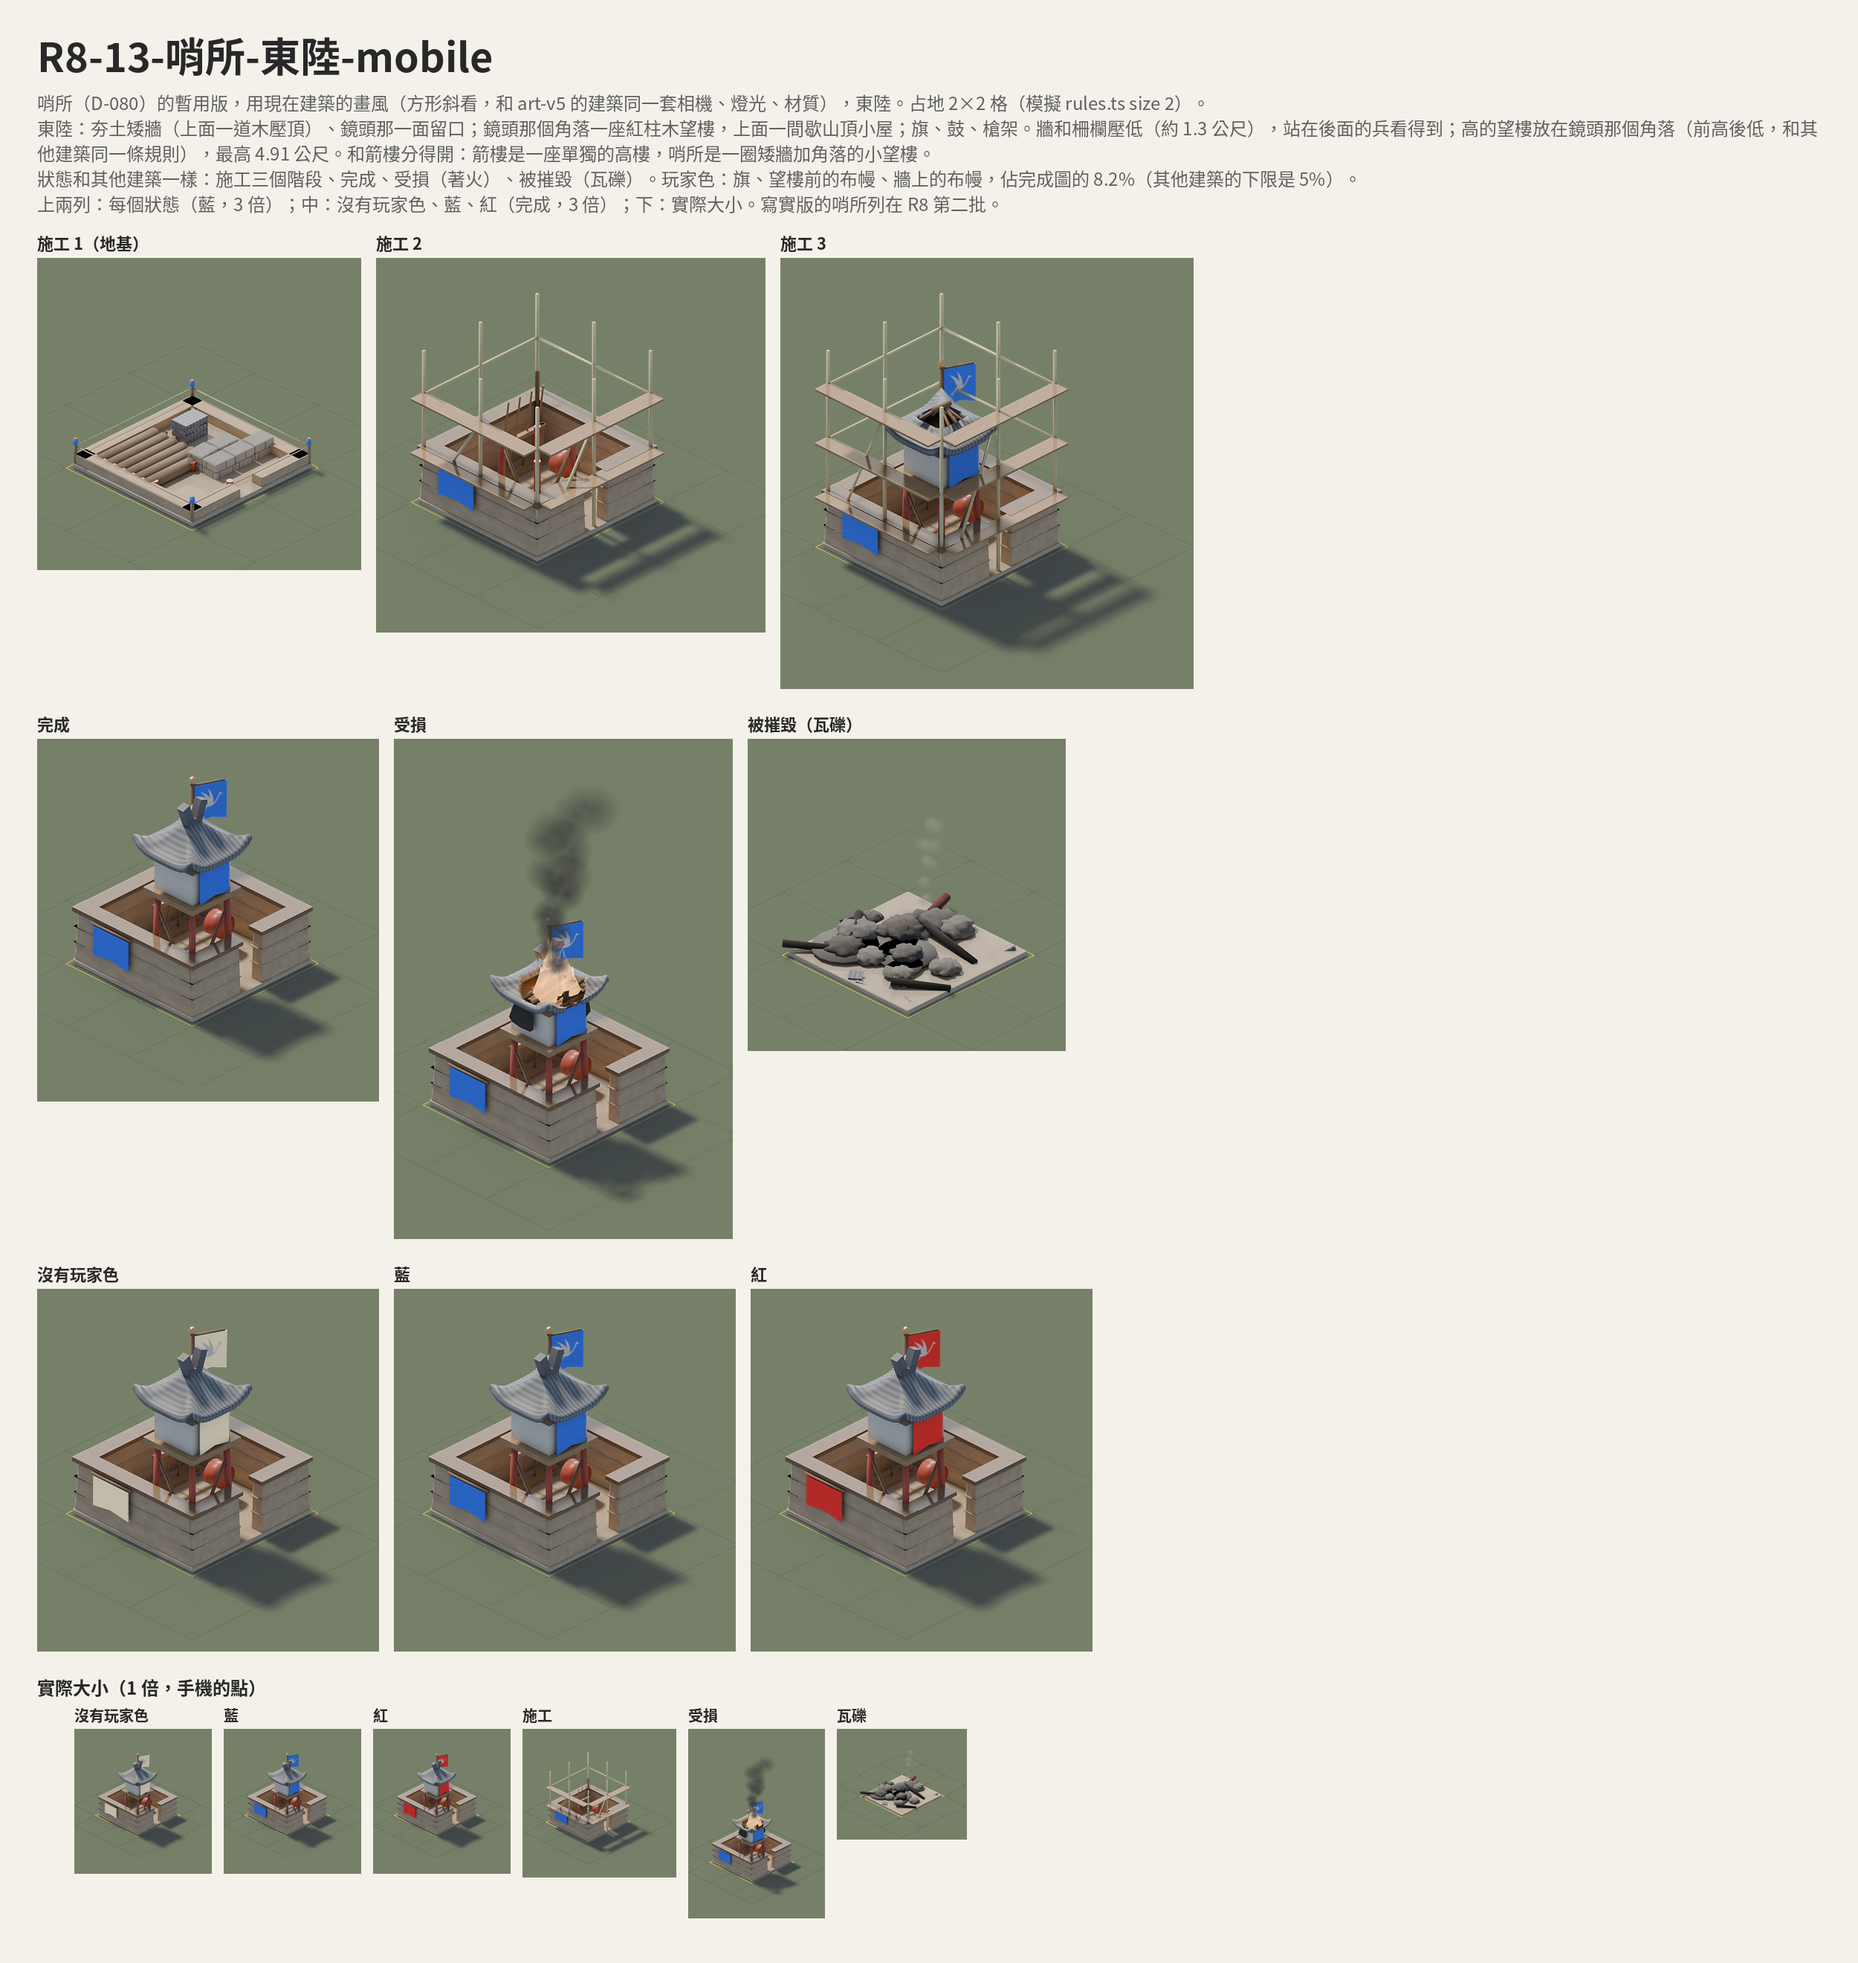
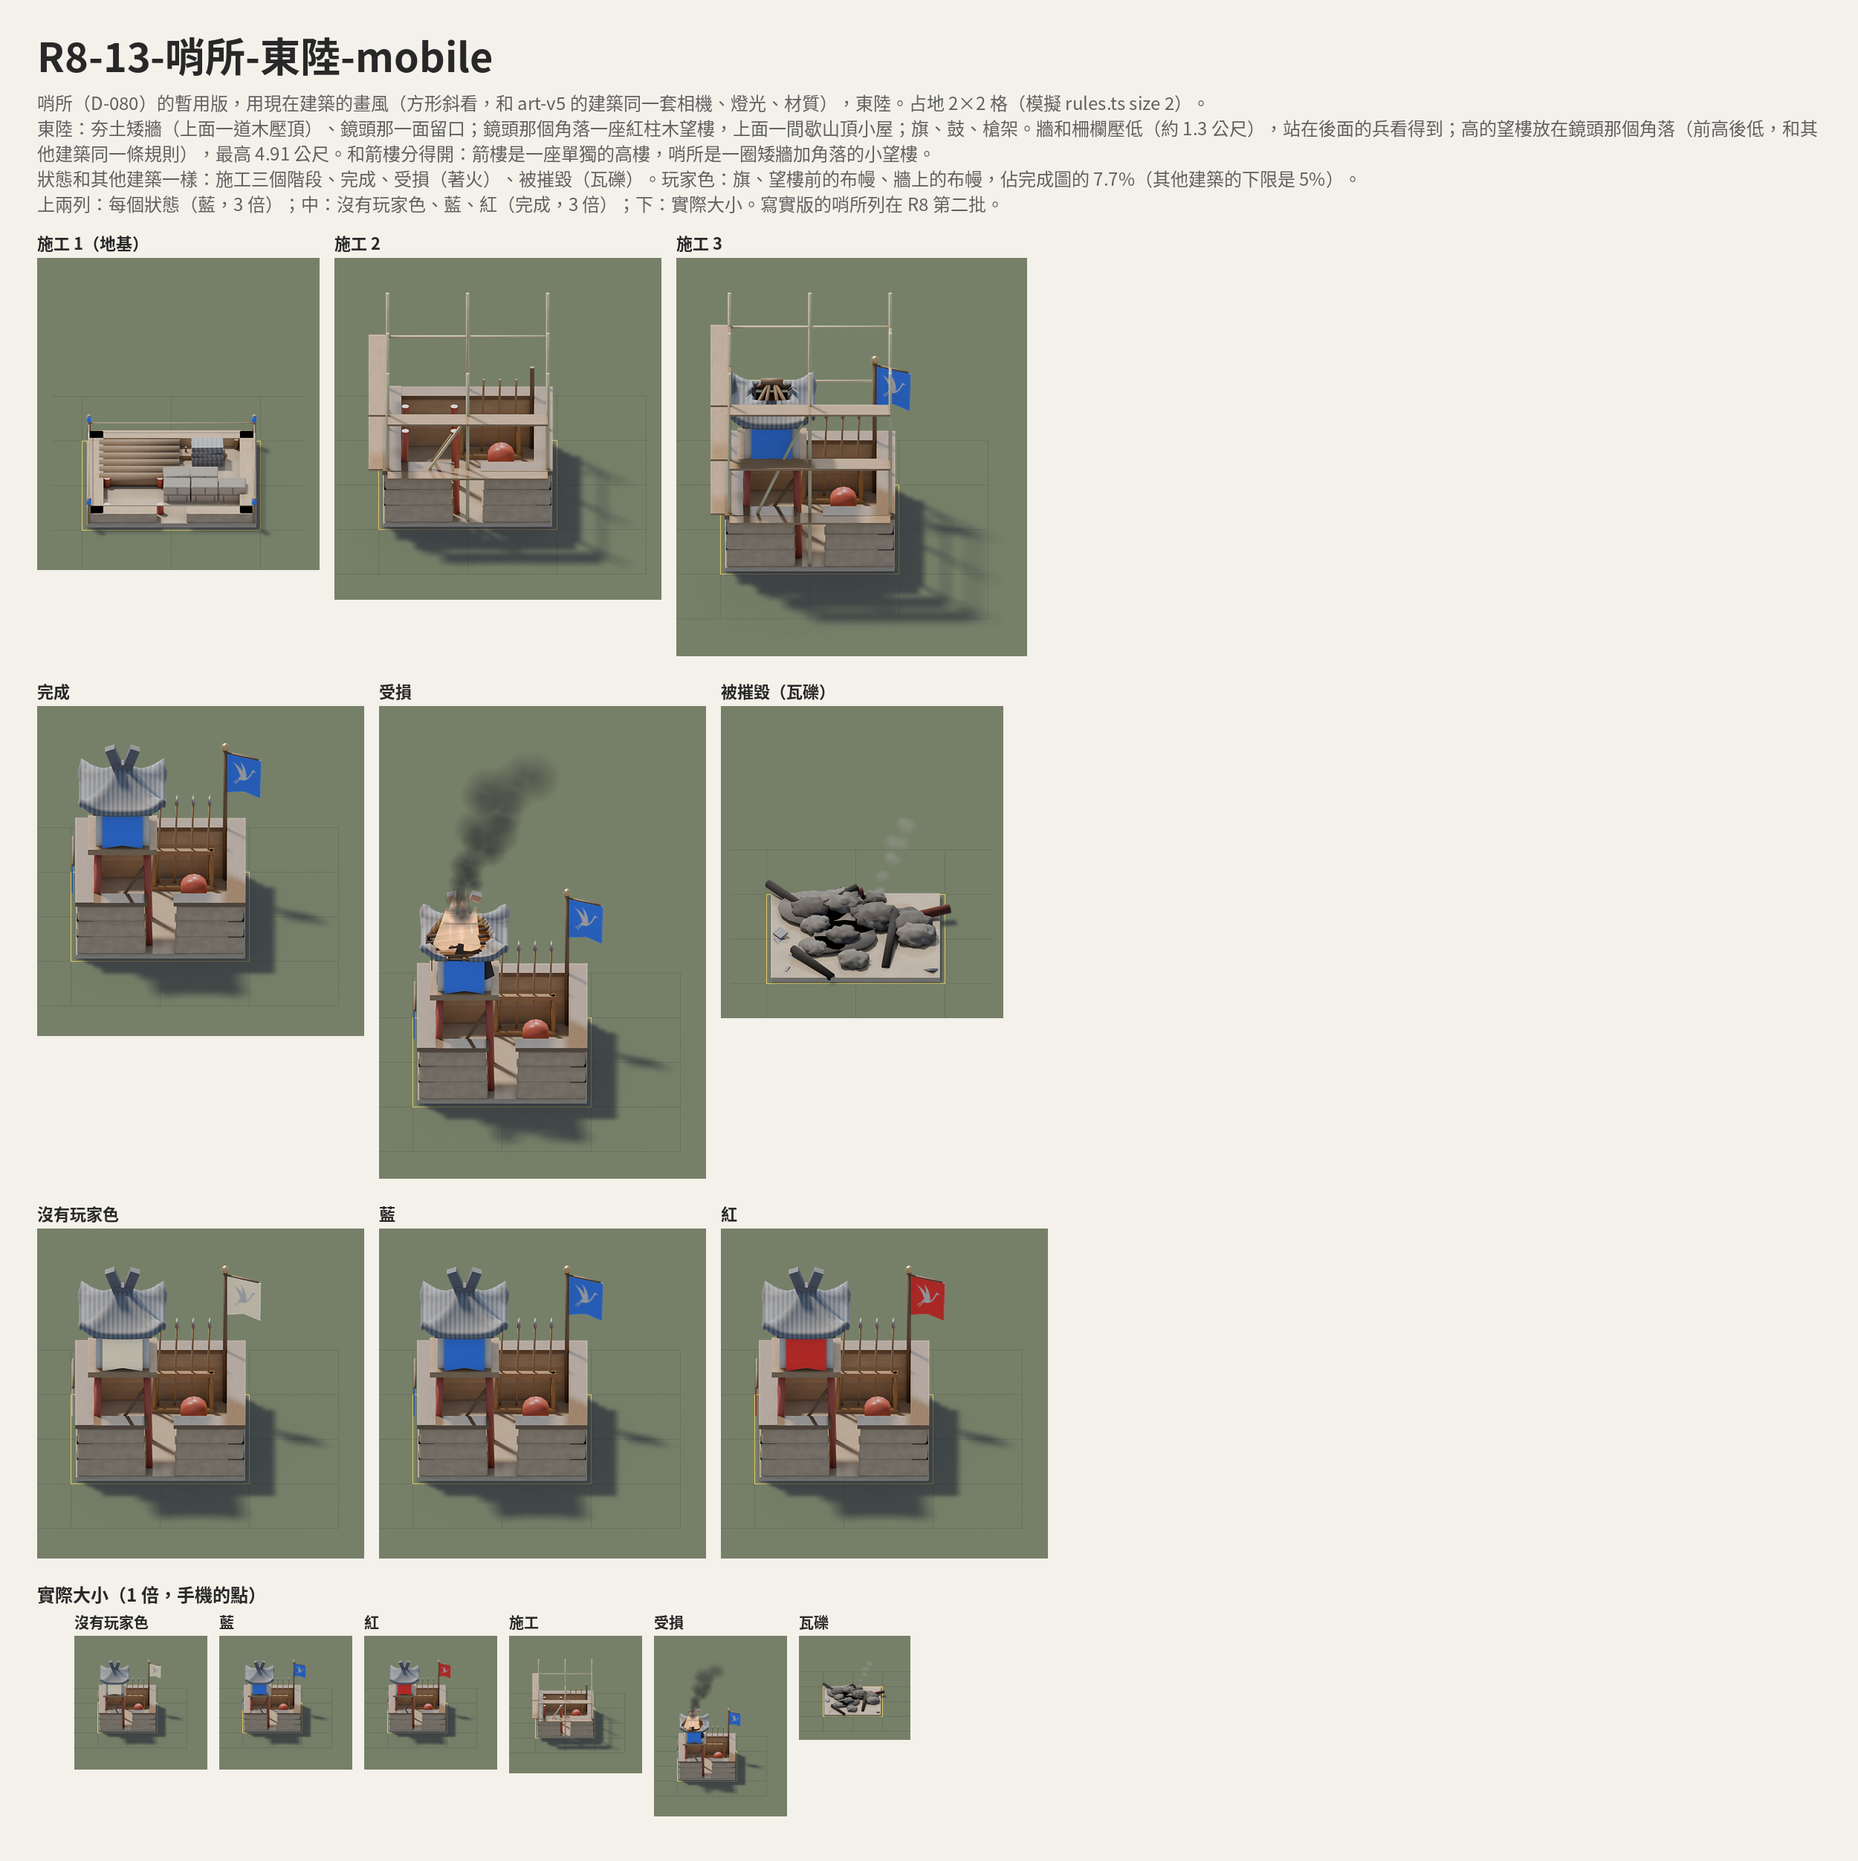
哨所核准稿 R8-13、R8-14 改用方形斜看重出（CI run 39728654152；之前的是菱形相機），板子的格線也用方形斜看

Changed region(s): [[0.0, 0.0, 0.9672, 0.9968]]

diff --git a/design/b1/common/outpost_board.py b/design/b1/common/outpost_board.py
@@ -16,9 +16,11 @@ sys.path.insert(0, str(HERE.parents[1] / "r6" / "common"))
 import b1art    # noqa: E402
 import boards   # noqa: E402
 import config   # noqa: E402
+import proj     # noqa: E402
 import scene    # noqa: E402
 
 boards.OUT = HERE.parents[1] / "r8" / "out"
+proj.use_camera(proj.OBLIQUE)            # the grid and the placing: the buildings' square camera (art-v3 on)
 STATES = [("build1", "施工 1（地基）"), ("build2", "施工 2"), ("build3", "施工 3"), ("done", "完成"), ("damaged", "受損"),
           ("rubble", "被摧毀（瓦礫）")]
 LABEL = {"E": ("R8-13-哨所-東陸-mobile", "東陸"), "W": ("R8-14-哨所-西陸-mobile", "西陸")}
